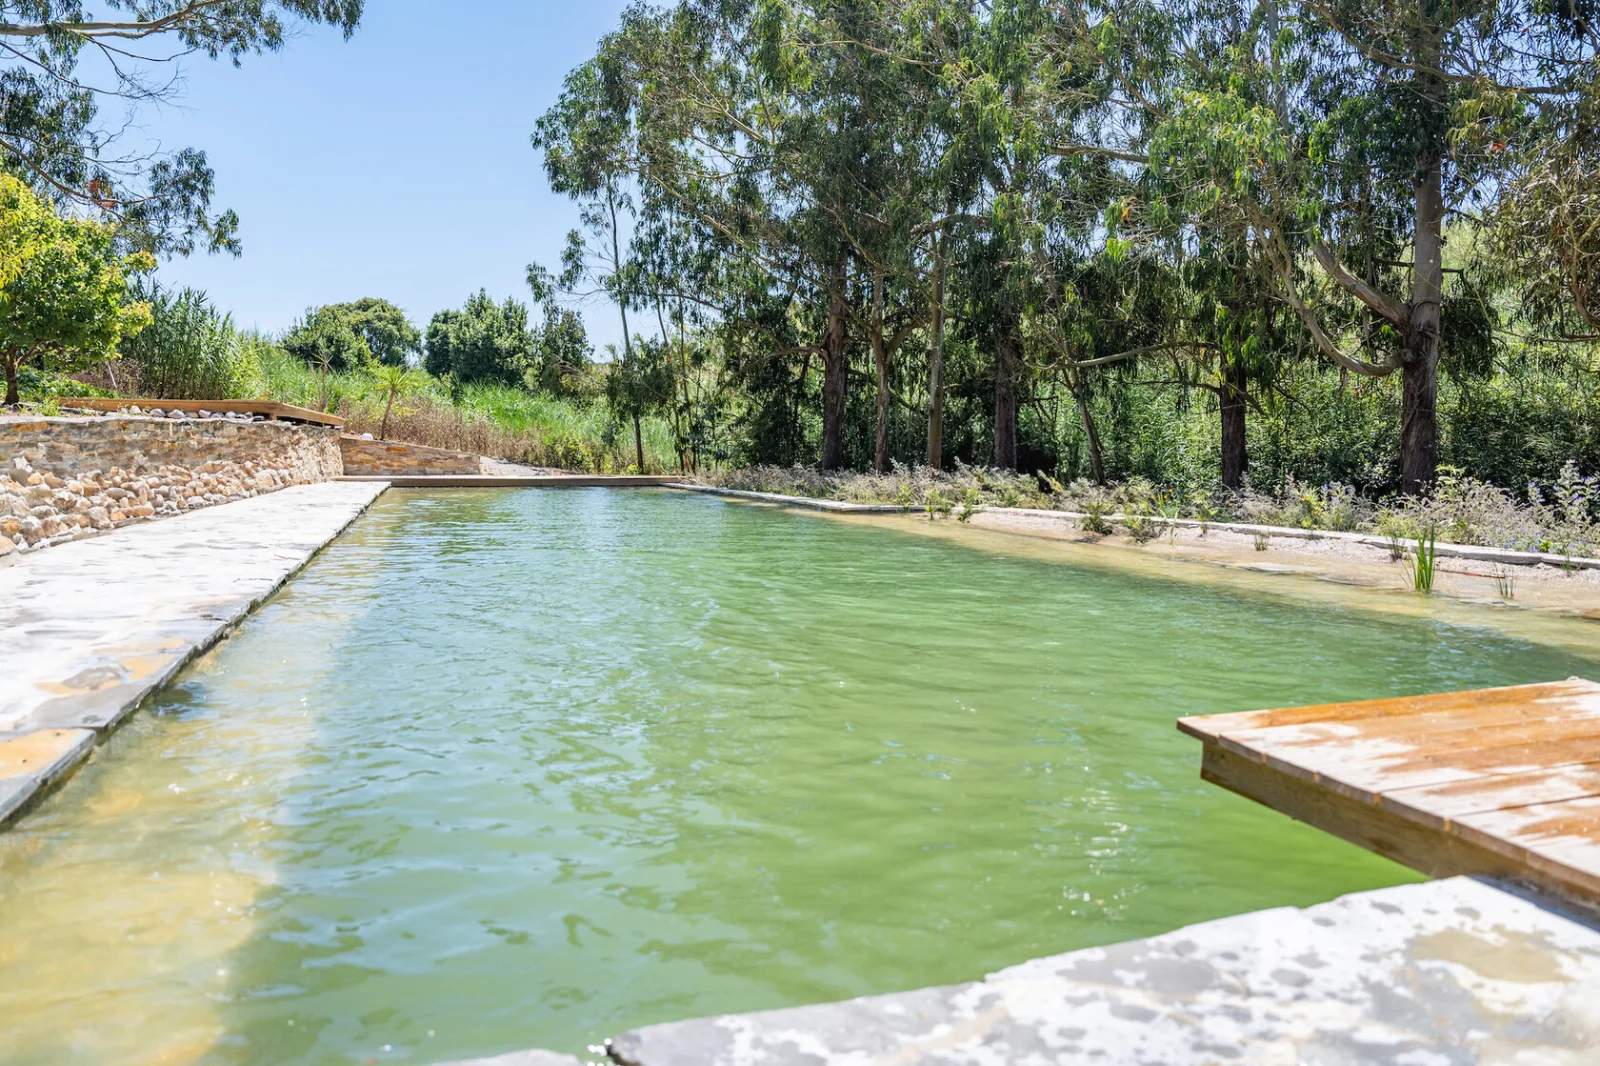
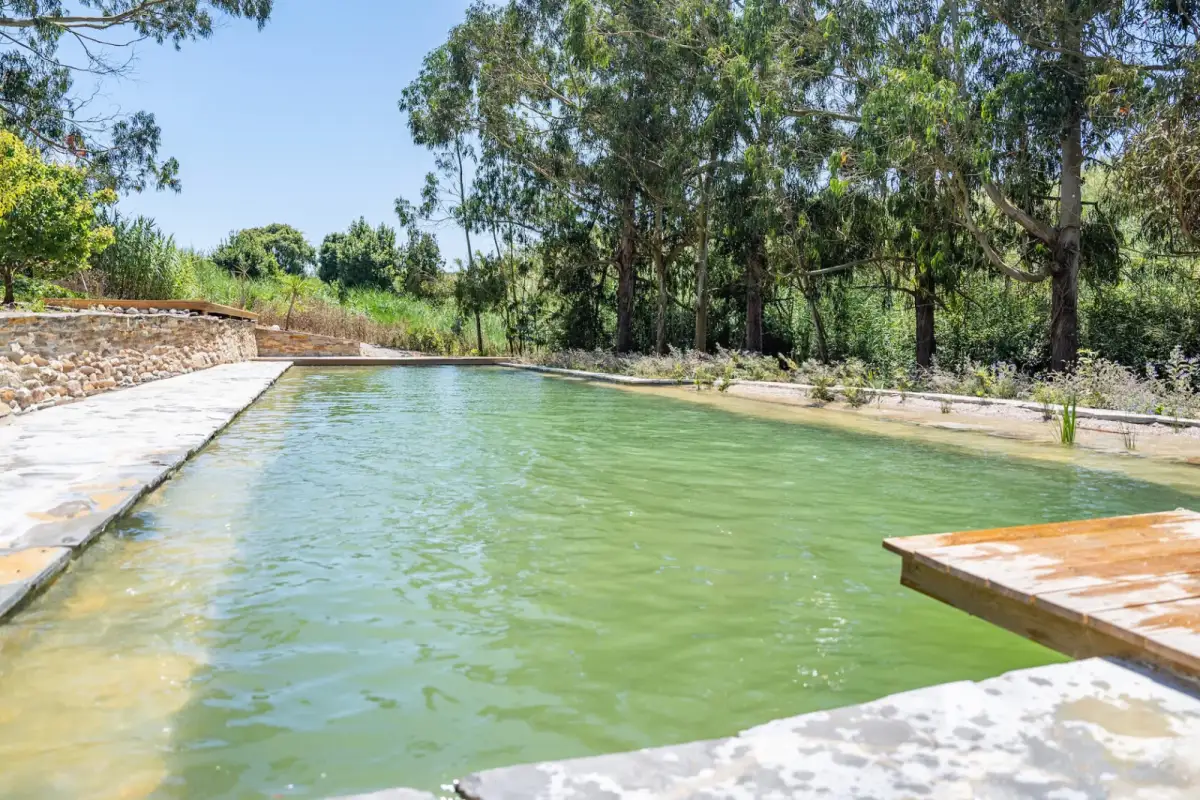
Upgrade images to high-res + minor component fixes
Replace low-res jahan-quote (600x480 → 1920x1536), upgrade venue
and hero photos to better quality. Fix FAQ useLayoutEffect, lazy-load
manifesto bg, improve testimonials focus ring.

diff --git a/components/landing/TestimonialsSection.tsx b/components/landing/TestimonialsSection.tsx
@@ -33,7 +33,7 @@ function VideoCircle({ video, index, onOpen }: { video: typeof videoTestimonials
     <button
       ref={containerRef}
       onClick={() => onOpen(index)}
-      className="relative flex-shrink-0 group focus-visible:outline-none snap-start"
+      className="relative flex-shrink-0 group focus-visible:ring-2 focus-visible:ring-brand-clay focus-visible:ring-offset-2 rounded-full snap-start"
     >
       <div className="w-[100px] h-[100px] sm:w-[120px] sm:h-[120px] rounded-full p-[3px] ring-2 ring-brand-clay group-hover:ring-brand-clay-hover transition-all group-hover:scale-105">
         <div className="w-full h-full rounded-full overflow-hidden bg-brand-dark relative">

diff --git a/components/landing/ManifestoSection.tsx b/components/landing/ManifestoSection.tsx
@@ -11,7 +11,7 @@ export default function ManifestoSection() {
         fill
         className="object-cover object-[50%_25%]"
         sizes="100vw"
-        priority
+        loading="lazy"
       />
       {/* Dark overlay */}
       <div className="absolute inset-0 bg-black/60" />

diff --git a/components/landing/FAQSection.tsx b/components/landing/FAQSection.tsx
@@ -1,6 +1,6 @@
 'use client'
 
-import { useState, useRef, useEffect } from 'react'
+import { useState, useRef, useLayoutEffect } from 'react'
 import { faqItems } from './constants'
 
 export default function FAQSection() {
